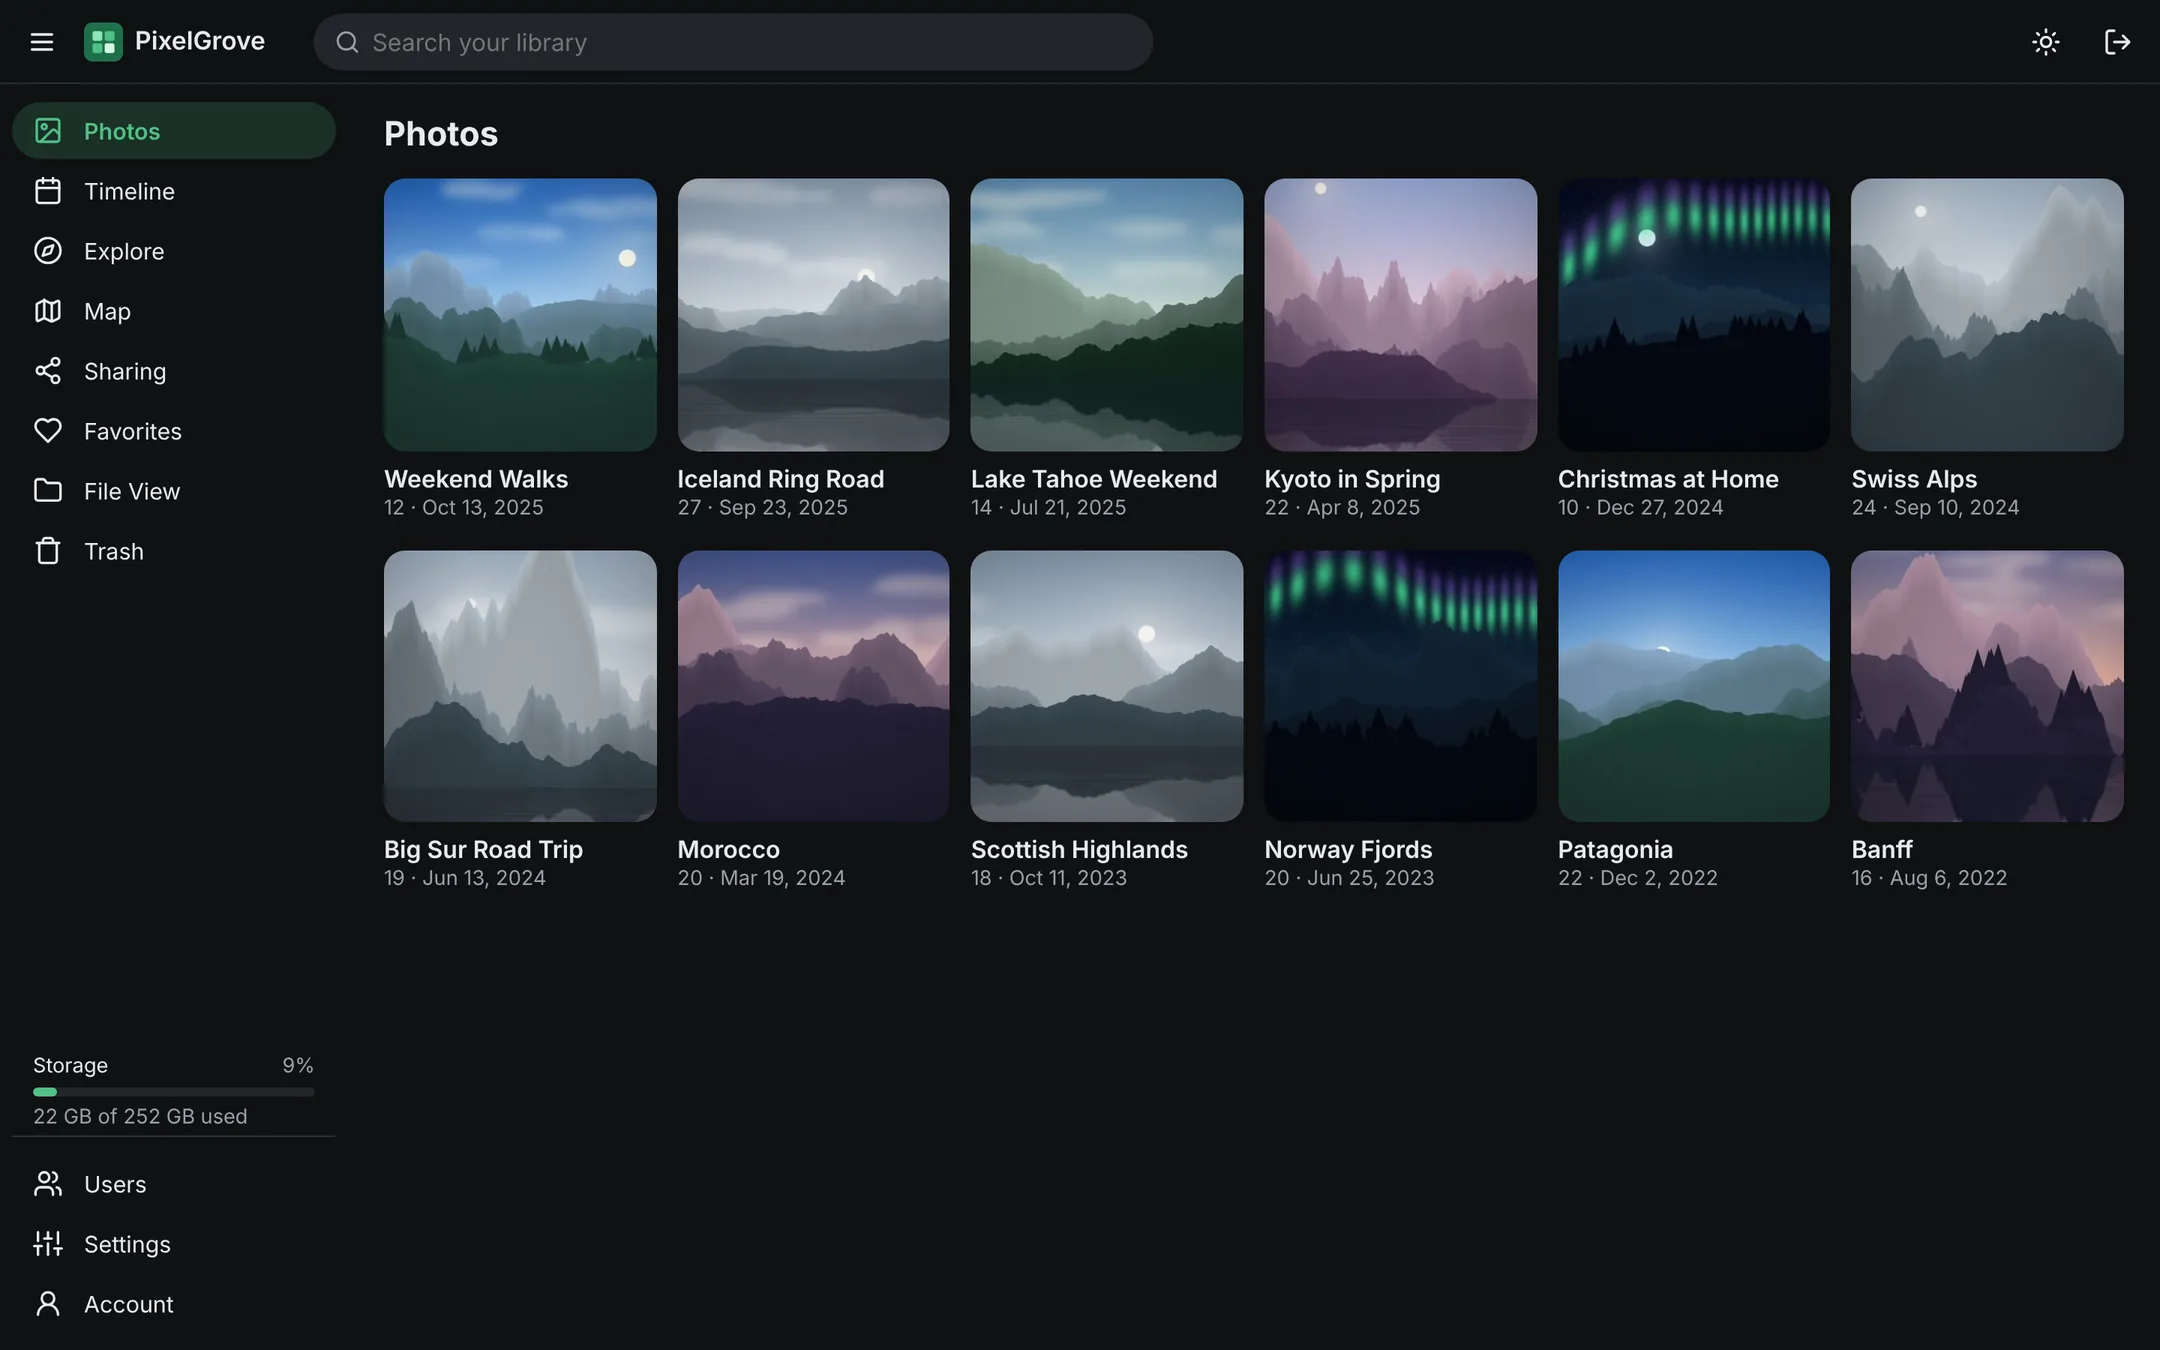
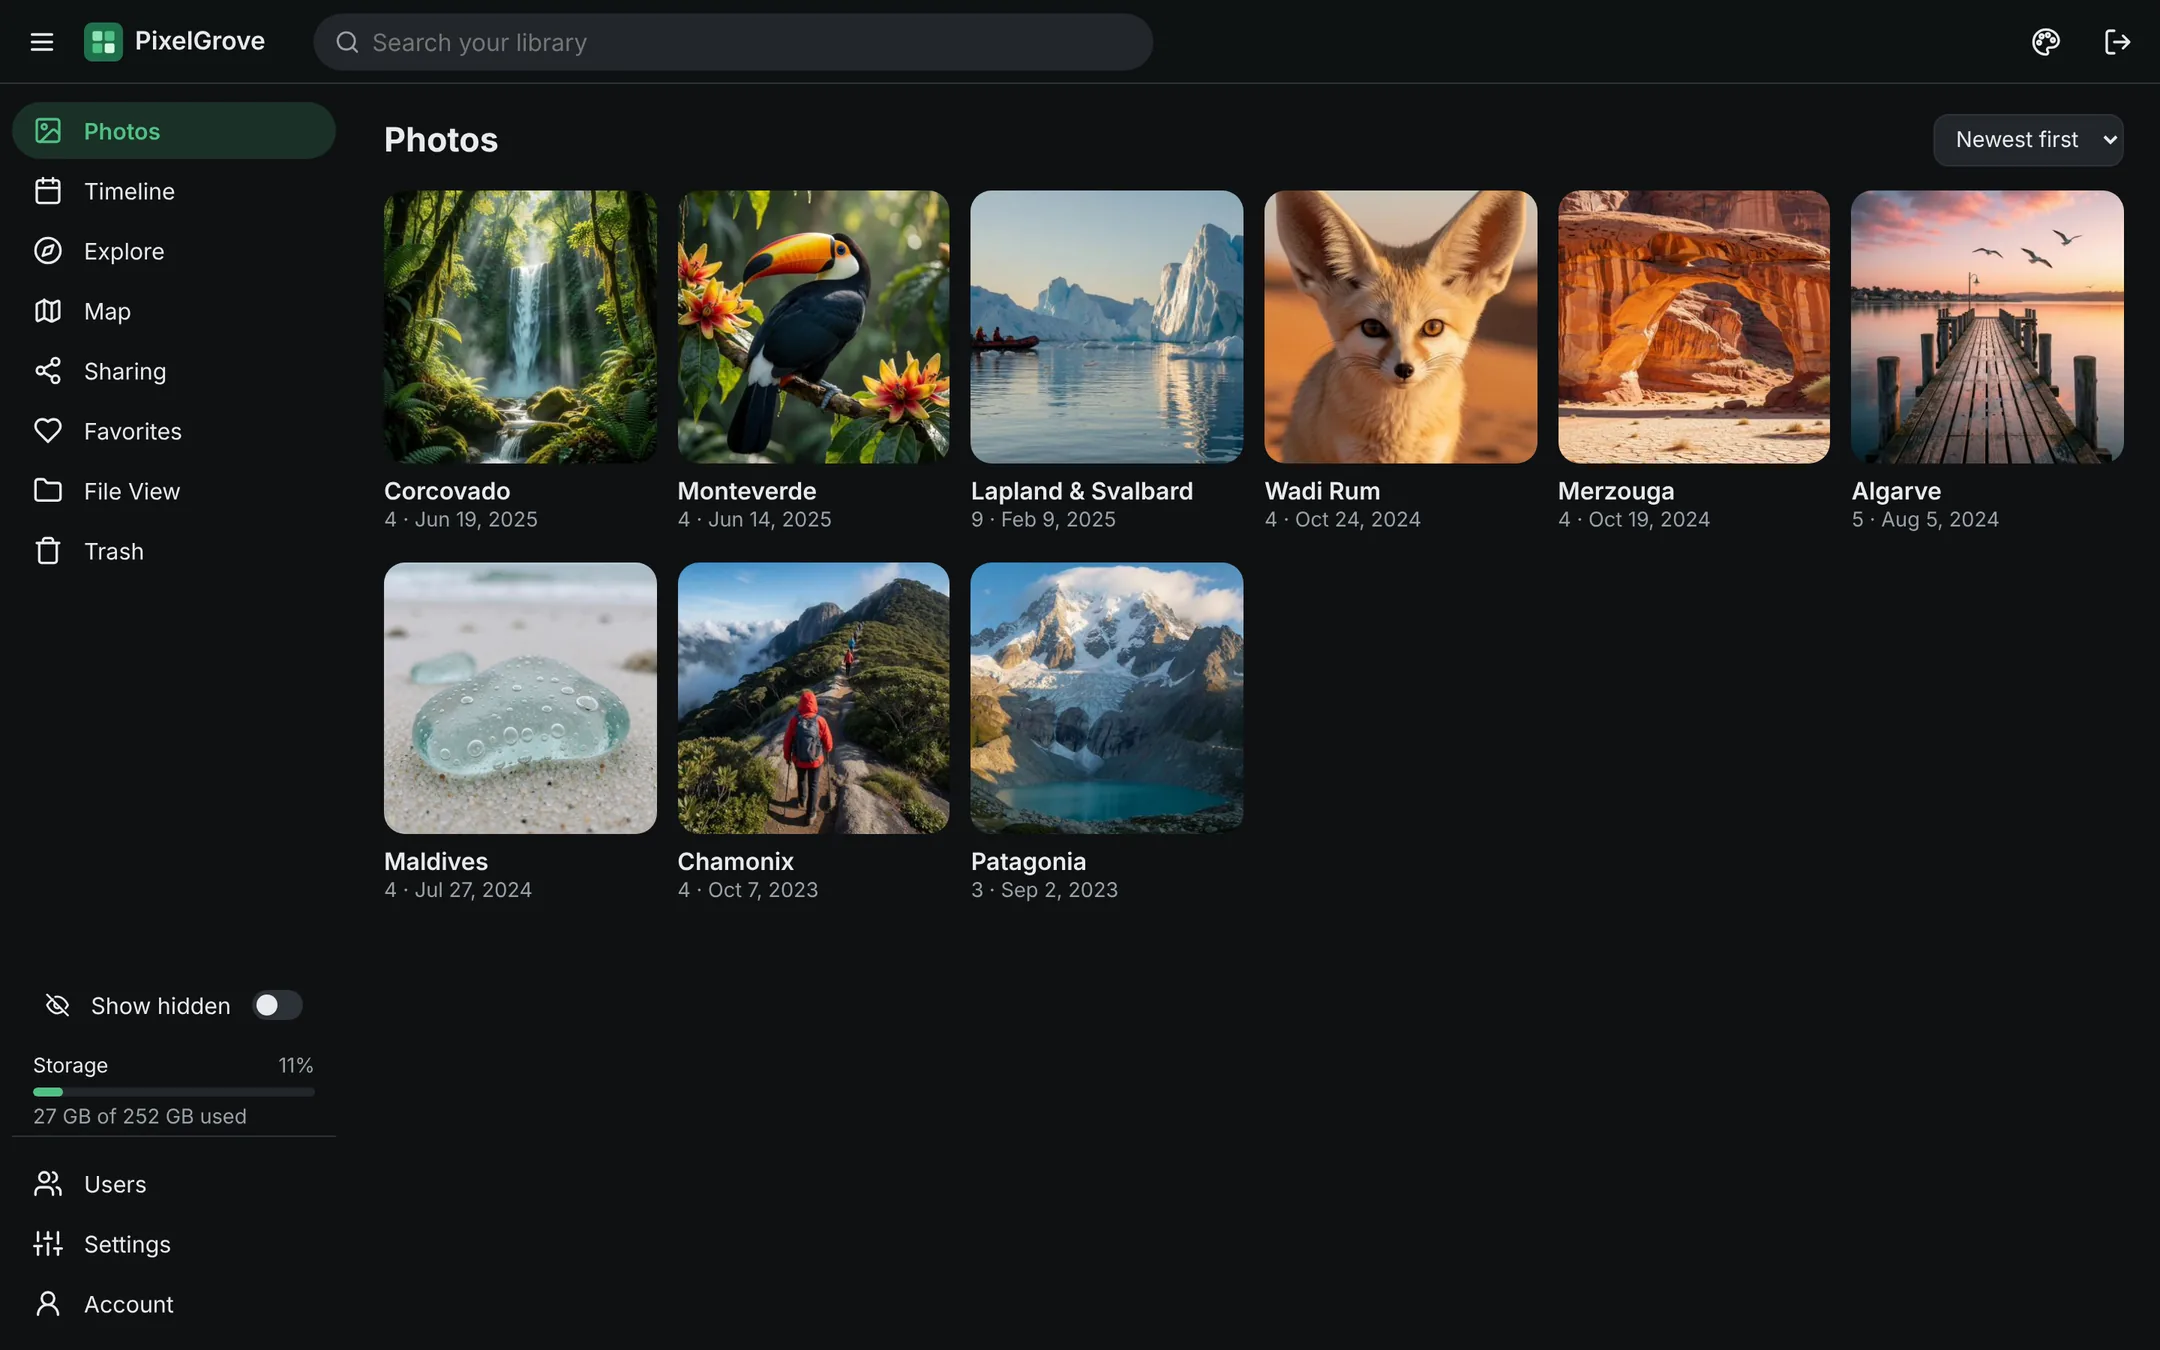
README screenshots from real-looking demo pictures
The screenshots now show a demo library made from a set of AI-generated
pictures (arctic, rainforest, desert, coast and mountains) instead of
procedural landscapes. demo_photos.py sorts them into nine trip folders with
EXIF dates, cameras and GPS, and makes two short videos from two of them;
the pictures themselves aren't in the repository.

The folder screenshots are replaced by the timeline (dark and light themes),
which shows more of the library; the shared folder is taken at 1024x640 so
its nine items fill it, and the phone shots show folders, the timeline and
the viewer.

Claude-Session: https://claude.ai/code/session_016YcZxQzkKBpiCJTkW1HfzN

diff --git a/scripts/screenshots/demo_photos.py b/scripts/screenshots/demo_photos.py
@@ -1,0 +1,112 @@
+"""Builds the README demo library from a set of photos: they are sorted into trip
+folders and given EXIF dates, cameras and GPS positions, and two short videos are made
+from two of them with ffmpeg.
+
+The photos are the "Demo_Images" set (Krea-2_000NN_.jpg, generated images with no
+EXIF), which isn't in the repository. Needs Pillow and ffmpeg (libx264).
+Usage: demo_photos.py <photos dir> <library dir>
+"""
+import os
+import random
+import subprocess
+import sys
+from datetime import datetime, timedelta
+
+from PIL import Image
+
+PHOTOS, ROOT = sys.argv[1], sys.argv[2]
+
+CAMERAS = [
+    ("Apple", "iPhone 16 Pro", "iPhone 16 Pro back triple camera 6.765mm f/1.78", "IMG_"),
+    ("SONY", "ILCE-7M4", "FE 24-70mm F2.8 GM II", "DSC0"),
+    ("FUJIFILM", "X-T5", "XF16-55mmF2.8 R LM WR", "DSCF"),
+    ("Google", "Pixel 9", None, "PXL_"),
+]
+
+# folder, first day, days, photo numbers, (lat, lon) spots, cameras, video (photo, name)
+TRIPS = [
+    ("2025/Lapland & Svalbard", "2025-02-08", 2, [2, 23, 4, 24, 1, 21, 3, 22],
+     [(68.4385, 17.4273), (69.6492, 18.9553), (78.2232, 15.6267)], [0, 1], (23, "aurora")),
+    ("2025/Monteverde", "2025-06-14", 1, [5, 7, 26, 28], [(10.3010, -84.8255)], [2, 0], None),
+    ("2025/Corcovado", "2025-06-19", 1, [6, 8, 25, 27], [(8.5381, -83.5891)], [0, 2], None),
+    ("2024/Merzouga", "2024-10-19", 1, [9, 11, 29, 30], [(31.0802, -4.0133)], [2, 0], None),
+    ("2024/Wadi Rum", "2024-10-24", 1, [10, 12, 31, 32], [(29.5759, 35.4204)], [0, 2], None),
+    ("2024/Maldives", "2024-07-27", 1, [13, 16, 33, 36], [(3.2028, 73.2207)], [3, 0], None),
+    ("2024/Algarve", "2024-08-05", 1, [14, 15, 34, 35], [(37.0179, -7.9304)], [3, 1],
+     (35, "waves")),
+    ("2023/Patagonia", "2023-09-02", 1, [17, 20, 37], [(-49.2713, -72.9411), (-50.3379, -72.2648)],
+     [1, 2], None),
+    ("2023/Chamonix", "2023-10-07", 1, [18, 19, 38, 40], [(45.9237, 6.8694)], [2, 1], None),
+]
+
+
+def dms(x):
+    x = abs(x)
+    d = int(x)
+    m = int((x - d) * 60)
+    s = round(((x - d) * 60 - m) * 60, 2)
+    return (d, m, s)
+
+
+def with_exif(src, dest, taken, gps, camera):
+    make, model, lens, _ = CAMERAS[camera]
+    img = Image.open(src)
+    exif = img.getexif()
+    exif[0x010F] = make
+    exif[0x0110] = model
+    ex = exif.get_ifd(0x8769)
+    ex[0x9003] = taken.strftime("%Y:%m:%d %H:%M:%S")
+    if lens:
+        ex[0xA434] = lens
+    lat, lon = gps
+    g = exif.get_ifd(0x8825)
+    g[1] = "N" if lat >= 0 else "S"
+    g[2] = dms(lat)
+    g[3] = "E" if lon >= 0 else "W"
+    g[4] = dms(lon)
+    img.save(dest, quality=90, exif=exif)
+    t = taken.timestamp()
+    os.utime(dest, (t, t))
+
+
+def video(src, dest, taken):
+    """A slow 6-second zoom into the photo."""
+    w, h = Image.open(src).size
+    size = "720x1280" if h > w else "1280x720"
+    subprocess.run(
+        ["ffmpeg", "-v", "error", "-y", "-loop", "1", "-i", src, "-vf",
+         f"scale=-2:2160,zoompan=z='1+0.0008*on':x='iw/2-iw/zoom/2':y='ih/2-ih/zoom/2'"
+         f":d=150:s={size}:fps=25,format=yuv420p",
+         "-t", "6", "-c:v", "libx264", "-crf", "26", "-preset", "slow",
+         "-metadata", f"creation_time={taken.strftime('%Y-%m-%dT%H:%M:%SZ')}", dest],
+        check=True,
+    )
+    t = taken.timestamp()
+    os.utime(dest, (t, t))
+
+
+def main():
+    rng = random.Random(7)
+    n = 0
+    for folder, start, days, photos, spots, cams, clip in TRIPS:
+        os.makedirs(os.path.join(ROOT, folder), exist_ok=True)
+        t0 = datetime.fromisoformat(start) + timedelta(hours=7)
+        for i, number in enumerate(photos):
+            n += 1
+            camera = cams[i % len(cams)]
+            day = days * i // len(photos)
+            taken = t0 + timedelta(days=day, minutes=rng.randint(0, 720))
+            lat, lon = spots[i % len(spots)]
+            gps = (lat + rng.uniform(-0.04, 0.04), lon + rng.uniform(-0.04, 0.04))
+            name = f"{CAMERAS[camera][3]}{4100 + n * 7:04d}.jpg"
+            src = os.path.join(PHOTOS, f"Krea-2_{number:05d}_.jpg")
+            dest = os.path.join(ROOT, folder, name)
+            with_exif(src, dest, taken, gps, camera)
+            if clip and clip[0] == number:
+                video(src, os.path.join(ROOT, folder, f"{clip[1]}.mp4"),
+                      taken + timedelta(minutes=3))
+    print(n, "photos")
+
+
+if __name__ == "__main__":
+    main()

diff --git a/README.md b/README.md
@@ -27,15 +27,15 @@ An ultra-light, fast, self-hosted photo and video library written in Rust.
 
 | | |
 |---|---|
-| ![A folder of photos with Slideshow and Share buttons](docs/screenshots/folder.webp) | ![The photo viewer with the info panel showing date, camera, lens and location](docs/screenshots/viewer.webp) |
-| A folder, newest first; videos show their length | The viewer: zoom, copy, favorite, share, download, slideshow and info |
-| ![Explore: places, countries and cameras with cover photos](docs/screenshots/explore.webp) | ![A folder in the light theme](docs/screenshots/folder-light.webp) |
-| Explore by place, country, camera and year, worked out offline | Light theme (dark is the default) |
-| ![A shared folder as a visitor sees it, with no sign-in](docs/screenshots/share.webp) | ![PixelGrove on a phone: folders, a folder and the viewer](docs/screenshots/mobile.webp) |
-| A shared folder, as a visitor sees it (no account needed) | On a phone, where it can also be installed as an app |
+| ![The timeline: photos grouped by day, with a list of months to jump to](docs/screenshots/timeline.webp) | ![The photo viewer with the info panel showing date, camera, lens and location](docs/screenshots/viewer.webp) |
+| The timeline, by day, with months to jump to | The viewer: zoom, copy, favorite, share, download, slideshow and info |
+| ![Explore: places, countries and cameras with cover photos](docs/screenshots/explore.webp) | ![The timeline in the light theme](docs/screenshots/light.webp) |
+| Explore by place, country, camera and year, worked out offline | Light theme (dark is the default; there are nine) |
+| ![A shared folder as a visitor sees it, with no sign-in](docs/screenshots/share.webp) | ![PixelGrove on a phone: folders, the timeline and the viewer](docs/screenshots/mobile.webp) |
+| A shared folder, as a visitor sees it (no account needed); videos show their length | On a phone, where it can also be installed as an app |
 
-<sub>The pictures in these screenshots are generated landscapes, not real photos
-([how they're made](scripts/screenshots/README.md)).</sub>
+<sub>The pictures in these screenshots are AI-generated, with made-up dates, cameras and
+places ([how they're made](scripts/screenshots/README.md)).</sub>
 
 ## Running with Docker
 

diff --git a/scripts/screenshots/README.md b/scripts/screenshots/README.md
@@ -1,9 +1,13 @@
 # README screenshots
 
-The images in `docs/screenshots/` show a generated demo library: procedural landscapes
-(`landscape.py`) with made-up dates, cameras and GPS positions (`demo_library.py`), so
-no real photos are needed. `shoot.mjs` drives the app with Playwright at 1440×900
-(2× pixel density) and 390×844 for phones; see its header for the steps. The PNGs were
-then scaled to 75% and saved as WebP (quality 82), and the three phone shots placed side
-by side for `mobile.webp`. The two videos in the demo are short `ffmpeg` zooms over a
-generated landscape.
+The images in `docs/screenshots/` show a demo library made from a set of AI-generated
+pictures ("Demo_Images", `Krea-2_000NN_.jpg`, not in the repository): `demo_photos.py`
+sorts them into trip folders, gives them EXIF dates, cameras and GPS positions, and makes
+two short videos from two of them with `ffmpeg`. `shoot.mjs` drives the app with
+Playwright at 1440×900 (2× pixel density; the shared folder at 1024×640) and 390×844
+for phones; see its header for the steps. The PNGs were then scaled to 75% and saved as
+WebP (quality 82), and the three phone shots placed side by side (transparent gaps,
+1548 px wide) for `mobile.webp`.
+
+`demo_library.py` and `landscape.py` make a larger library of generated landscapes
+instead, for when the pictures aren't at hand (e.g. for benchmarks).
